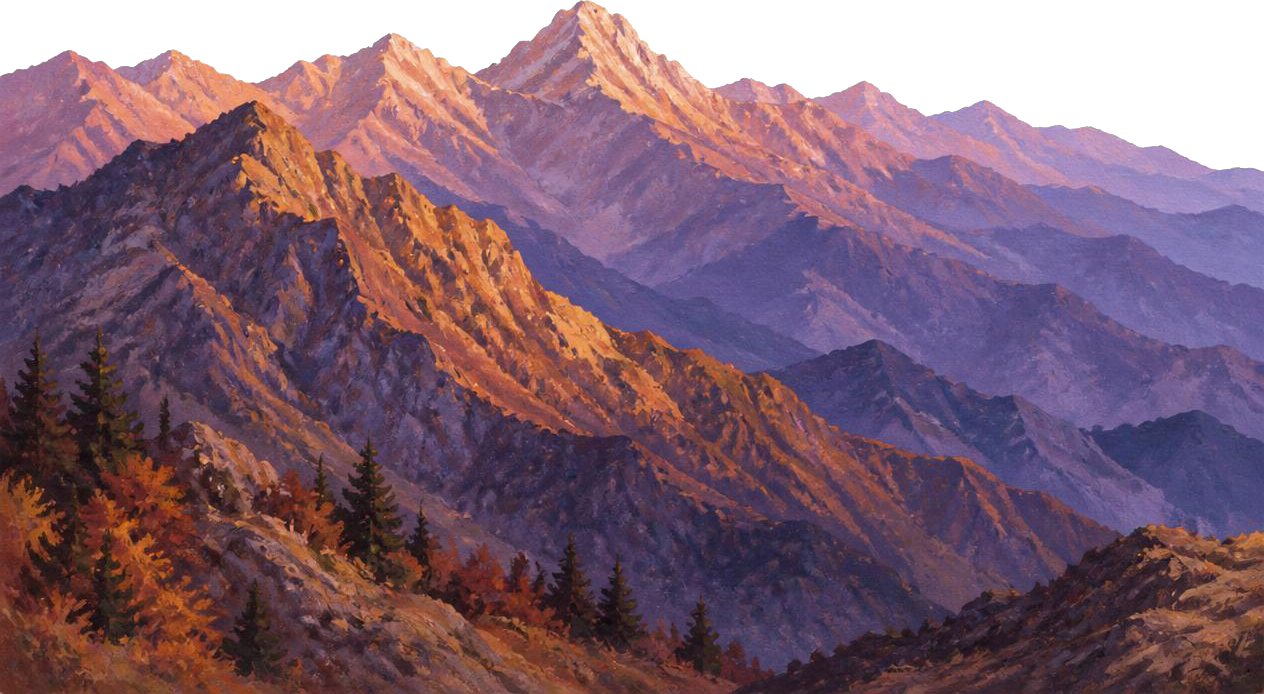
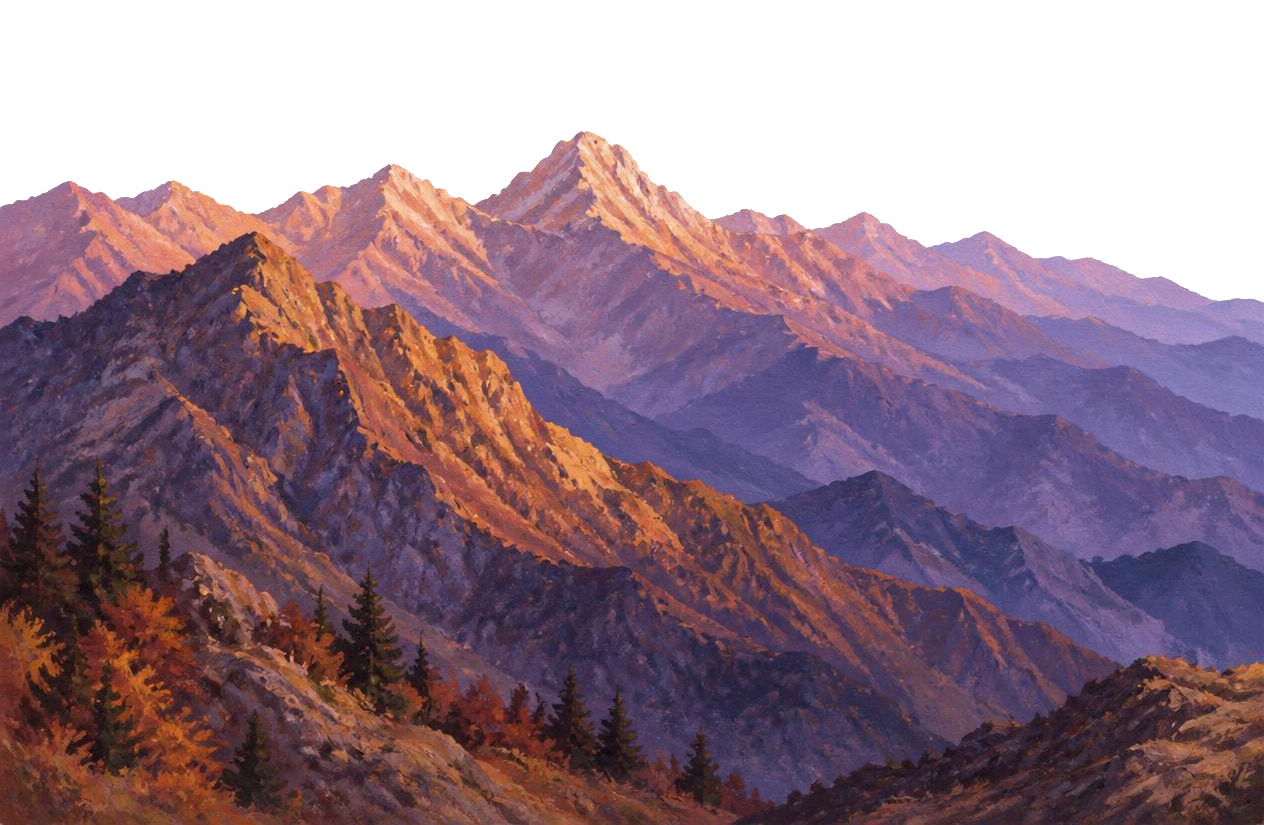
Fix day/night alignment, remake hills-village, add sun/moon arc motion
- Remove the river layer entirely
- Fix day/night misalignment: mountains, hills-village, and main-village
  were each chroma-keyed and cropped independently, so a slightly
  different bounding box per image caused a visible shift on crossfade.
  Both images in a pair are now cropped to their shared bounding box,
  so they overlay pixel-for-pixel with a tighter, fringe-free edge.
- Rebuild hills-village from a fresh reference: modest rundown housing,
  modern slim streetlights, sparse terrain instead of dense greenery,
  in the same painterly style as the mountains. It's now a full-bleed
  layer like the other layers (not a floating centered island), capped
  to a fixed height via object-cover so it sits low enough that the
  mountain peaks stay visible above it, both at rest and once risen
  into its locked position.
- Sun/moon now move along a shared quarter-circle arc (center below the
  mountains, computed in JS since CSS calc() has no trig) instead of a
  straight vertical line: the sun retreats back under the mountains as
  the moon advances up and to the right to replace it, keeping the
  existing accelerating-dip / decelerating-rise easing on the arc
  parameter itself. Both are also sized up slightly.

diff --git a/src/components/village-parallax-scene.tsx b/src/components/village-parallax-scene.tsx
@@ -13,6 +13,17 @@ const PHASE_A_END = 0.38; // parallax assembly
 const PHASE_B_END = 0.68; // position locked, day -> night
 // phase C (0.68 -> 1): black wheatfield rises to cover
 
+// Sun/moon share one quarter-circle arc: a center point below the
+// mountains, swept from 180deg (level with the center, off to the side —
+// occluded, "under the mountains") to 90deg (directly above the center —
+// clear of them). See the scroll effect for how each body's position on
+// this arc is derived.
+const ARC_CENTER_X_PCT = 66;
+const ARC_CENTER_Y_VH = 54;
+const ARC_RADIUS_VH = 45;
+const ARC_START_DEG = 180;
+const ARC_END_DEG = 90;
+
 function phaseT(start: number, end: number): string {
   return `clamp(0, calc((var(--scene-progress, 0) - ${start}) / ${end - start}), 1)`;
 }
@@ -92,13 +103,15 @@ function Layer({ entered, z, className, entranceStyle, enteredStyle, delayMs, sc
 
 // A day image and a night image, same box, cross-fading on --scene-progress
 // via DAYNIGHT_T — never a hard cut, and never a size jump, because both
-// share one fixed aspect-ratio box and both use object-contain.
+// share one fixed box (sized by `box`, e.g. an aspect-ratio class or a
+// fixed height) and the same object-fit.
 function DayNightPair({
   day,
   night,
   dayDims,
   nightDims,
-  aspect,
+  box,
+  objectFit = "contain",
   priority,
   dropShadow,
 }: {
@@ -106,16 +119,22 @@ function DayNightPair({
   night: string;
   dayDims: [number, number];
   nightDims: [number, number];
-  aspect: string;
+  box: string;
+  /** 'cover' crops to fill the box (e.g. a full-width layer capped to a
+   * fixed vh height, deliberately cropping its empty upper margin so a
+   * tall source doesn't reach further up-screen than intended); 'contain'
+   * (default) letterboxes to show the whole image. */
+  objectFit?: "contain" | "cover";
   priority?: boolean;
   /** Two-layer soft shadow so a detailed, similarly-toned cutout (the
    * hillside village) still reads as sitting in FRONT of an equally
    * detailed layer behind it (the mountains), instead of fusing with it. */
   dropShadow?: boolean;
 }) {
+  const fitClass = objectFit === "cover" ? "object-cover" : "object-contain";
   return (
     <div
-      className={`relative w-full ${aspect}`}
+      className={`relative w-full ${box}`}
       style={dropShadow ? { filter: "drop-shadow(0 22px 32px rgba(20,14,4,0.4)) drop-shadow(0 6px 12px rgba(20,14,4,0.3))" } : undefined}
     >
       <Image
@@ -123,7 +142,7 @@ function DayNightPair({
         alt=""
         width={dayDims[0]}
         height={dayDims[1]}
-        className="absolute inset-0 h-full w-full object-contain object-bottom"
+        className={`absolute inset-0 h-full w-full ${fitClass} object-bottom`}
         style={{ opacity: `calc(1 - ${DAYNIGHT_T})` }}
         priority={priority}
       />
@@ -132,7 +151,7 @@ function DayNightPair({
         alt=""
         width={nightDims[0]}
         height={nightDims[1]}
-        className="absolute inset-0 h-full w-full object-contain object-bottom"
+        className={`absolute inset-0 h-full w-full ${fitClass} object-bottom`}
         style={{ opacity: DAYNIGHT_T }}
       />
     </div>
@@ -145,9 +164,10 @@ export function VillageParallaxScene() {
   const reduceMotion = useReducedMotion();
   const [entered, setEntered] = useState(false);
 
-  // Scroll -> --scene-progress (+ eased --sun-t/--moon-t derived from it),
-  // written straight to the DOM: a plain listener proved far more
-  // reliable in testing than useScroll's own tracking.
+  // Scroll -> --scene-progress (+ eased --sun-t/--moon-t and their arc
+  // x/y offsets, derived from it), written straight to the DOM: a plain
+  // listener proved far more reliable in testing than useScroll's own
+  // tracking.
   useEffect(() => {
     const track = trackRef.current;
     if (!track) return;
@@ -166,6 +186,24 @@ export function VillageParallaxScene() {
       track.style.setProperty("--scene-progress", progress.toString());
       track.style.setProperty("--sun-t", sunT.toString());
       track.style.setProperty("--moon-t", moonT.toString());
+      // Quarter-circle arc: a shared center sits below the mountains: at
+      // t_arc=0 the point is level with the center, off to one side
+      // ("under the mountains", occluded); at t_arc=1 it's directly above
+      // the center ("above the mountains"). Sweeping between those two
+      // is a 90 degree arc that reads as rising up AND to the right, not
+      // a straight vertical line — computed here (not in CSS) since plain
+      // calc() has no trig functions to rely on.
+      const arcOffset = (tArc: number) => {
+        const angleDeg = ARC_START_DEG + (ARC_END_DEG - ARC_START_DEG) * tArc;
+        const angleRad = (angleDeg * Math.PI) / 180;
+        return { x: ARC_RADIUS_VH * Math.cos(angleRad), y: -ARC_RADIUS_VH * Math.sin(angleRad) };
+      };
+      const sunArc = arcOffset(1 - sunT);
+      const moonArc = arcOffset(moonT);
+      track.style.setProperty("--sun-x", sunArc.x.toFixed(2));
+      track.style.setProperty("--sun-y", sunArc.y.toFixed(2));
+      track.style.setProperty("--moon-x", moonArc.x.toFixed(2));
+      track.style.setProperty("--moon-y", moonArc.y.toFixed(2));
       raf = 0;
     };
     const onScroll = () => {
@@ -239,14 +277,16 @@ export function VillageParallaxScene() {
   const off = (px: number): React.CSSProperties => ({ opacity: 0, transform: `translateY(${px}px)` });
   const on: React.CSSProperties = { opacity: 1, transform: "translateY(0)" };
 
-  // Sun travels from a high point down to the horizon (tucking behind the
-  // mountains layer, which sits at a higher z-index); the moon travels the
-  // same span in reverse. Opacity fades a touch ahead of position so
-  // neither one visibly clips in a gap between peaks.
-  const SUN_TOP_VH = 9;
-  const SUN_HORIZON_VH = 52;
-  const sunTop = `calc(${SUN_TOP_VH}vh + (${SUN_HORIZON_VH - SUN_TOP_VH}vh) * var(--sun-t, 0))`;
-  const moonTop = `calc(${SUN_HORIZON_VH}vh - (${SUN_HORIZON_VH - SUN_TOP_VH}vh) * var(--moon-t, 0))`;
+  // Sun/moon position along the shared arc (see ARC_* constants + the
+  // scroll effect): --sun-x/--sun-y and --moon-x/--moon-y are the JS-
+  // computed vh offsets from the arc's center, refreshed every scroll
+  // frame. Static rest positions (arc endpoints) cover reduced-motion.
+  const arcLeft = (xVar: string) => `calc(${ARC_CENTER_X_PCT}% + var(${xVar}, 0) * 1vh)`;
+  const arcTop = (yVar: string) => `calc(${ARC_CENTER_Y_VH}vh + var(${yVar}, 0) * 1vh)`;
+  const sunRestLeft = `${ARC_CENTER_X_PCT}%`;
+  const sunRestTop = `${ARC_CENTER_Y_VH - ARC_RADIUS_VH}vh`;
+  const moonRestLeft = `calc(${ARC_CENTER_X_PCT}% - ${ARC_RADIUS_VH}vh)`;
+  const moonRestTop = `${ARC_CENTER_Y_VH}vh`;
 
   return (
     <div ref={trackRef} className="relative h-[420vh]" style={{ ["--scene-progress" as string]: "0" }}>
@@ -288,32 +328,36 @@ export function VillageParallaxScene() {
           ))}
         </div>
 
-        {/* sun — high and bright at rest, dips behind the mountains
-            (lower in the stack) with an accelerating ease-in */}
+        {/* sun — high and bright at rest, retreats around the arc back
+            under the mountains (lower in the stack) with an accelerating
+            ease-in */}
         <div
           aria-hidden
-          className="pointer-events-none absolute left-[66%] aspect-square w-[8vw] max-w-[104px] min-w-[52px] -translate-x-1/2"
+          className="pointer-events-none absolute aspect-square w-[10vw] max-w-[132px] min-w-[64px] -translate-x-1/2"
           style={{
             zIndex: 1,
-            top: reduceMotion ? `${SUN_TOP_VH}vh` : sunTop,
+            left: reduceMotion ? sunRestLeft : arcLeft("--sun-x"),
+            top: reduceMotion ? sunRestTop : arcTop("--sun-y"),
             opacity: reduceMotion ? 1 : `calc(1 - (var(--sun-t, 0) * 1.15))`,
           }}
         >
-          <Image src="/images/parallax-sun.png" alt="" fill sizes="8vw" className="object-contain" />
+          <Image src="/images/parallax-sun.png" alt="" fill sizes="10vw" className="object-contain" />
         </div>
 
-        {/* moon — rises to the sun's start position with a decelerating
-            ease-out, exactly reversed when scrolling back up */}
+        {/* moon — advances around the same arc from under the mountains
+            to the sun's rest position, with a decelerating ease-out,
+            exactly reversed when scrolling back up */}
         <div
           aria-hidden
-          className="pointer-events-none absolute left-[66%] aspect-square w-[7vw] max-w-[92px] min-w-[46px] -translate-x-1/2"
+          className="pointer-events-none absolute aspect-square w-[9vw] max-w-[118px] min-w-[58px] -translate-x-1/2"
           style={{
             zIndex: 1,
-            top: reduceMotion ? `${SUN_HORIZON_VH}vh` : moonTop,
+            left: reduceMotion ? moonRestLeft : arcLeft("--moon-x"),
+            top: reduceMotion ? moonRestTop : arcTop("--moon-y"),
             opacity: reduceMotion ? 0 : "var(--moon-t, 0)",
           }}
         >
-          <Image src="/images/parallax-moon.png" alt="" fill sizes="7vw" className="object-contain" />
+          <Image src="/images/parallax-moon.png" alt="" fill sizes="9vw" className="object-contain" />
         </div>
 
         {/* mountains — farthest, barely moves, first to arrive */}
@@ -331,33 +375,39 @@ export function VillageParallaxScene() {
           <DayNightPair
             day="/images/parallax-mountains-day.png"
             night="/images/parallax-mountains-night.png"
-            dayDims={[1264, 800]}
-            nightDims={[1264, 694]}
-            aspect="aspect-[1264/800]"
+            dayDims={[1264, 825]}
+            nightDims={[1264, 825]}
+            box="aspect-[1264/825]"
             priority
           />
         </Layer>
 
-        {/* hills-village — a large, clearly-bounded settlement sitting on
-            one hill, not the whole mountainside: wide enough to read as
-            a major feature (per the brief), but kept short of full-frame
-            so it doesn't visually fuse with the mountains behind it */}
+        {/* hills-village — full-bleed like the mountains behind it (not a
+            floating island), but capped to a fixed height and object-COVER
+            rather than its native aspect ratio: the source is wide and
+            short on content, tall on empty sky margin, so covering a
+            shorter box crops that margin away and keeps the settlement
+            sitting low enough that the mountain peaks stay visible above
+            it, both at rest and once it has risen into its locked
+            position. */}
         <Layer
           entered={entered}
           z={3}
-          className="bottom-[8%] left-[13%] right-[13%] sm:bottom-[10%]"
-          entranceStyle={{ opacity: 0, transform: "translateY(28px) scale(0.92)" }}
-          enteredStyle={{ opacity: 1, transform: "translateY(0) scale(1)" }}
+          className="bottom-0 left-0 w-full"
+          entranceStyle={off(36)}
+          enteredStyle={on}
           delayMs={180}
-          scrollY={assembleY(0, -20)}
-          pointerAmp={[9, 4]}
+          scrollY={assembleY(3, -11)}
+          pointerAmp={[7, 3]}
+          scaleBuffer={1.14}
         >
           <DayNightPair
             day="/images/parallax-hills-village-day.png"
             night="/images/parallax-hills-village-night.png"
-            dayDims={[1263, 794]}
-            nightDims={[1254, 776]}
-            aspect="aspect-[1263/794]"
+            dayDims={[1255, 661]}
+            nightDims={[1255, 661]}
+            box="h-[34vh]"
+            objectFit="cover"
             dropShadow
           />
         </Layer>
@@ -373,43 +423,10 @@ export function VillageParallaxScene() {
             <DayNightPair
               day="/images/parallax-main-village-day.png"
               night="/images/parallax-main-village-night.png"
-              dayDims={[1259, 768]}
-              nightDims={[1243, 755]}
-              aspect="aspect-[1259/768]"
+              dayDims={[1252, 778]}
+              nightDims={[1252, 778]}
+              box="aspect-[1252/778]"
               dropShadow
-            />
-          </div>
-        </div>
-
-        {/* river — foreground-most, starts furthest below, travels
-            fastest so it "catches up" to align with everything else. A
-            slim cropped band, not the full source image, so it reads as
-            a modest stream at the edge instead of dominating the frame. */}
-        <div aria-hidden className="pointer-events-none absolute bottom-0 left-0 h-[13vh] w-full sm:h-[16vh]" style={{ zIndex: 5 }}>
-          <div
-            className="origin-bottom scale-[1.14]"
-            style={{
-              position: "relative",
-              height: "100%",
-              width: "100%",
-              transform: `translate3d(${pointer(26, 0).x}, calc(${assembleY(115, 0)} + ${pointer(26, 0).y}), 0)`,
-            }}
-          >
-            <Image
-              src="/images/parallax-river-day.png"
-              alt=""
-              fill
-              sizes="100vw"
-              className="object-cover object-bottom"
-              style={{ opacity: `calc(1 - ${DAYNIGHT_T})` }}
-            />
-            <Image
-              src="/images/parallax-river-night.png"
-              alt=""
-              fill
-              sizes="100vw"
-              className="object-cover object-bottom"
-              style={{ opacity: DAYNIGHT_T }}
             />
           </div>
         </div>
